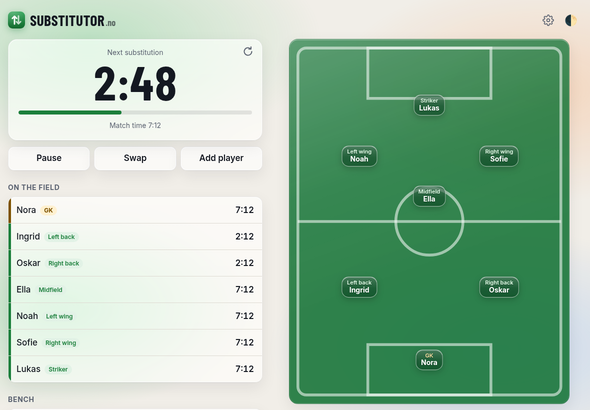
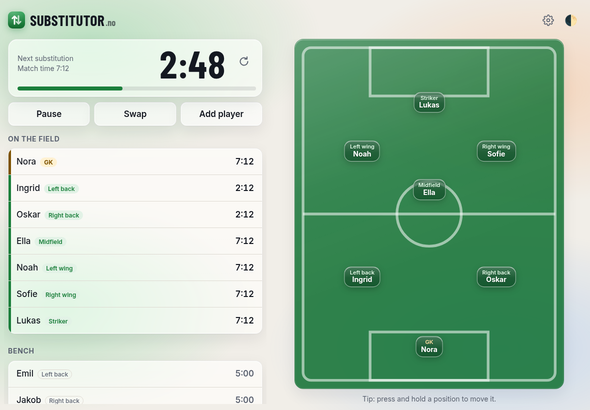
iPad sideways: clock and field stay put, only the player list scrolls
The clock is one compact row there, with the restart button next to the
countdown, so more players fit without scrolling.

diff --git a/style.css b/style.css
@@ -733,27 +733,53 @@ body:has(#screen-match:not([hidden])) .lang-toggle { display: none; }
    On a tablet upright the page is scaled up to 15% (the viewport script in index.html), never so
    much that fewer rows fit than on a phone.
    Upright, the column fills the width. Sideways (or a wide computer window), the
-   match screen shows the list and the field view side by side, with no swiping. */
+   match screen shows the list and the field view side by side, with no swiping
+   (body.with-field, set in app.js while the match screen and the field view show). */
 @media (min-width: 600px) {
   .topbar, .tagline, main { max-width: 680px; }
 }
 @media (min-width: 860px) and (min-height: 560px) and (orientation: landscape) {
-  body:has(#screen-match:not([hidden]) #field-page:not([hidden])) :is(.topbar, main) { max-width: 1180px; }
-  #screen-match .pages:has(#field-page:not([hidden])) {
+  /* The page itself doesn't scroll: the header, the clock with its buttons and the field
+     stay put, and only the list below the buttons scrolls (.match-scroll). */
+  body.with-field { height: 100dvh; display: flex; flex-direction: column; overflow: hidden; }
+  body.with-field :is(.topbar, main) { max-width: 1180px; width: 100%; }
+  body.with-field main { flex: 1; min-height: 0; display: flex; flex-direction: column; padding-bottom: calc(12px + env(safe-area-inset-bottom)); }
+  body.with-field #screen-match { flex: 1; min-height: 0; display: flex; flex-direction: column; }
+  body.with-field .pages {
+    flex: 1;
+    min-height: 0;
     display: grid;
     grid-template-columns: minmax(0, 5fr) minmax(0, 6fr); /* the field gets a bit more room than the list */
+    grid-template-rows: minmax(0, 1fr); /* one row, exactly the height that is left */
+    align-items: stretch;
     gap: 28px;
-    align-items: start;
     margin: 0;
     overflow: visible;
     height: auto !important;
   }
-  #screen-match .pages:has(#field-page:not([hidden])) > .page { padding: 0; }
-  /* The field stays in view while the list scrolls; its small clock isn't needed next to the big one. */
-  #screen-match #field-page { position: sticky; top: 12px; }
-  /* …and fits the screen's height. No bench under it here: the list next to it shows the bench. */
-  #screen-match .pitch { width: min(100%, calc((100dvh - 90px) * 10 / 13)); margin: 0 auto; }
-  #screen-match .field-bench { display: none; }
-  #screen-match #field-clock,
-  #screen-match #page-dots { display: none !important; }
+  body.with-field .pages > .page { padding: 0; min-height: 0; display: flex; flex-direction: column; }
+  body.with-field .match-scroll { flex: 1; min-height: 0; overflow-y: auto; overscroll-behavior: contain; margin: 0 -8px; padding: 0 8px 8px; } /* the padding keeps the lists' shadows */
+  body.with-field .match-scroll > h3:first-child { margin-top: 4px; }
+
+  /* The clock as one row: what it is and the match time on the left, the countdown and ↻ on the right, the progress bar below. */
+  body.with-field #clock {
+    display: grid;
+    grid-template-columns: 1fr auto auto;
+    grid-template-areas: "label count restart" "time count restart" "bar bar bar";
+    align-items: center;
+    column-gap: 12px;
+    padding: 10px 12px 12px 18px;
+    text-align: left;
+  }
+  body.with-field #clock > :nth-child(2) { grid-area: label; align-self: end; }
+  body.with-field #countdown { grid-area: count; font-size: 76px; }
+  body.with-field #clock > .progress { grid-area: bar; margin: 8px 0 0; }
+  body.with-field #clock > :nth-child(5) { grid-area: time; align-self: start; }
+  body.with-field #restart-countdown { grid-area: restart; position: static; }
+  body.with-field .controls { margin-top: 10px; }
+
+  /* The field: its small clock, the page dots and its bench aren't needed next to the list. */
+  body.with-field #field-page { overflow: hidden; }
+  body.with-field :is(#field-clock, #page-dots, .field-bench) { display: none !important; }
+  body.with-field .pitch { width: min(100%, calc((100dvh - 120px) * 10 / 13)); margin: 0 auto; }
 }

diff --git a/js/app.js b/js/app.js
@@ -64,6 +64,7 @@ function show(name) {
   for (const s of document.querySelectorAll('.screen')) s.hidden = s.id !== `screen-${name}`;
   window.scrollTo(0, 0);
   $('settings-btn').hidden = name !== 'match';
+  sideBySide();
   $('match-pages').scrollLeft = 0; // the match screen opens on the list
   $('match-pages').style.height = '';
   setArranging(false);
@@ -406,6 +407,7 @@ function renderMatch() {
   const fieldView = !!(match.settings.positions && team.settings.fieldView);
   $('field-page').hidden = !fieldView;
   $('page-dots').hidden = !fieldView;
+  sideBySide();
   if (fieldView) renderField();
   else if ($('match-pages').scrollLeft) {
     // The field view was switched off while showing: back to the list
@@ -413,6 +415,13 @@ function renderMatch() {
     $('match-pages').style.height = '';
   }
   updateClock();
+}
+
+// On a tablet sideways the match screen shows the list and the field side by
+// side (style.css, "Tablets"). The body gets a class while the match screen and
+// the field view are both showing, for those styles to hook onto.
+function sideBySide() {
+  document.body.classList.toggle('with-field', !$('screen-match').hidden && !$('field-page').hidden);
 }
 
 // ---------- field view ----------

diff --git a/index.html b/index.html
@@ -166,6 +166,7 @@
         <button id="swap-now" type="button" data-t>Swap</button>
         <button id="add-late" type="button" data-t>Add player</button>
       </div>
+      <div class="match-scroll"><!-- scrolls on its own on a tablet sideways, below the pinned clock and buttons -->
       <h3 data-t>On the field</h3>
       <ul id="field-list" class="list"></ul>
       <h3 data-t>Bench</h3>
@@ -177,6 +178,7 @@
       <p class="muted small"><span data-t>Minutes show total time played, and in small grey, time since they last came on.</span> <span id="last-pos-hint" hidden data-t>Grey tags on the bench show where they last played.</span> <span data-t>Tap a player for more options.</span></p>
       <button id="end-match" type="button" class="danger" data-t>End match</button>
       <button id="share-match" type="button" class="big" data-t>Move to another phone</button>
+      </div>
       </div>
 
       <!-- Field view (bench below the field): swipe left from the list (only with positions and the field view switched on) -->

diff --git a/CLAUDE.md b/CLAUDE.md
@@ -111,7 +111,7 @@ GitHub Pages serves `main` / root as-is, with no build step. `git push` redeploy
 
 ### Tablets (decided 2026-10-14)
 - **Size:** an inline script in `index.html`'s head sets the viewport `width` narrower than the window on tablets (shortest side ≥ 700px), so the browser scales the whole page up. Coordinates for taps and dragging stay consistent, unlike CSS `zoom`. Scale = `min(1.15, height / 844)`: never so big that fewer rows fit than on a phone (owner's wish). So an iPad upright is about 15% bigger (layout ~713×1026), and sideways normal size (820 tall is already shorter than a phone). It reads the real window size from `visualViewport` (width × scale), so split screen works, and it re-fits on `resize`. Phones keep `width=device-width`; desktop browsers ignore the viewport tag.
-- **Layout:** `@media (min-width: 600px)` widens the column to 680px. `@media (min-width: 860px) and (min-height: 560px) and (orientation: landscape)` turns the match screen's two `.pages` into a grid, list 5fr and field 6fr (owner: the field a bit wider), when the field view is on. The field page is sticky, its mini clock, the page dots and its bench are hidden (the list shows them), and the pitch's width is capped by the screen height so the whole field fits. Phones sideways are too short for it (min-height), so they keep swiping.
+- **Layout:** `@media (min-width: 600px)` widens the column to 680px. `@media (min-width: 860px) and (min-height: 560px) and (orientation: landscape)` turns the match screen's two `.pages` into a grid, list 5fr and field 6fr (owner: the field a bit wider), while `body.with-field` is set (`sideBySide()` in `app.js`: match screen and field view both showing). The page itself doesn't scroll (body is 100dvh, a flex column, one grid row of `minmax(0, 1fr)` with `align-items: stretch`): the header, the clock, its buttons and the field stay put, and only `.match-scroll` (players, bench, help text, End match, Move to another phone) scrolls. The clock becomes one grid row there (label and match time left, a 76px countdown and ↻ right, the bar below), about half the height. The field's mini clock, the page dots and its bench are hidden (the list shows them), and the pitch's width is capped by the screen height so the whole field fits. Phones sideways are too short for it (min-height), so they keep swiping.
 - The e2e test runs iPad sizes upright and sideways as a touch device, and checks the scale, the side-by-side field, a drag, and that a phone keeps the normal size.
 
 ### Time

diff --git a/PLAN.md b/PLAN.md
@@ -73,6 +73,6 @@ All confirmed by the user. For how each one works in the code, see [CLAUDE.md](C
 - **Norwegian and Google** (2026-10-14): the whole app in English and Norwegian (bokmål), following the phone, with one small round flag in the top-right corner showing the current language (tap to switch; hidden during a match); each language has its own address (`?lang=no`). A description, link previews, `robots.txt`, a sitemap and a short intro on the first screen, so Google can list it. Norwegian goalkeeper badge: MV.
 - **Android bottom strip** (2026-10-14): the installed app's colours in the manifest are the dark navy, so Android's bottom navigation strip is dark with a light handle in both modes (Android can't follow light/dark there). Same in PrimeTime.
 - **GitHub page** (2026-10-14): a description, topics, the substitutor.no link and five screenshots in the README (English position names). A small link to the GitHub page at the bottom of the app's front page, so people know where to contribute.
-- **Tablets** (2026-10-14): upright, one wide column a little bigger than on a phone (at most 15%, never fewer rows than a phone); sideways, the match list and the field side by side, the field a bit wider and without its bench. Same for Android tablets and wide computer windows.
+- **Tablets** (2026-10-14): upright, one wide column a little bigger than on a phone (at most 15%, never fewer rows than a phone); sideways, the match list and the field side by side, the field a bit wider and without its bench; only the player list scrolls, under a compact one-row clock (with ↻) and its buttons, which stay put. Same for Android tablets and wide computer windows.
 - **No visitor statistics** (2026-10-14): the owner chose to skip them. Google Search Console (set up by the owner, with a DNS TXT record at Domeneshop) only covers Google searches.
 - **Domain:** substitutor.no, bought at Domeneshop, with ".no" after the name in the header like PrimeTime's ".re". Phones don't need their saved team moved to the new address. Live since 2026-10-14, with HTTPS.

diff --git a/README.md b/README.md
@@ -78,7 +78,7 @@ Your setup is remembered for the next match.
   <img src="screenshots/7-ipad-portrait-dark.png" width="230" alt="iPad upright in dark mode: one wide column, a little bigger than on a phone">
 </p>
 
-- **Sideways:** the match list and the field are side by side, so there's no swiping. The field gets a little more room and stays in view while you scroll the list. Its bench is left out, since the list next to it shows the bench. Press and hold a position to arrange them, as on a phone.
+- **Sideways:** the match list and the field are side by side, so there's no swiping. The field gets a little more room. The clock is one compact row (↻ next to the countdown), and the clock, its buttons and the field stay put: only the list of players scrolls, if it doesn't fit. Its bench is left out, since the list next to it shows the bench. Press and hold a position to arrange them, as on a phone.
 - **Upright:** one column using the full width. Everything is a little bigger than on a phone, but never so big that you see fewer players than on a phone. The field view is one swipe away, as on a phone.
 - The same applies to Android tablets, and to a wide computer window (side by side, normal size).
 
